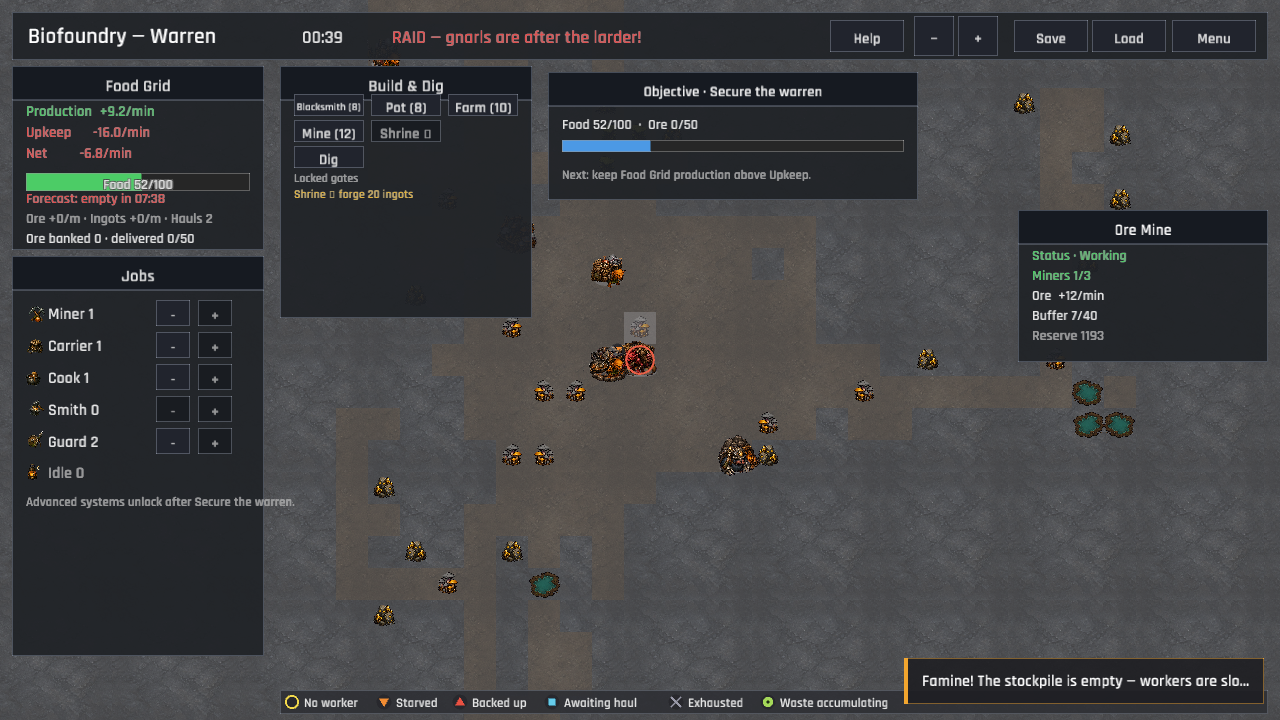
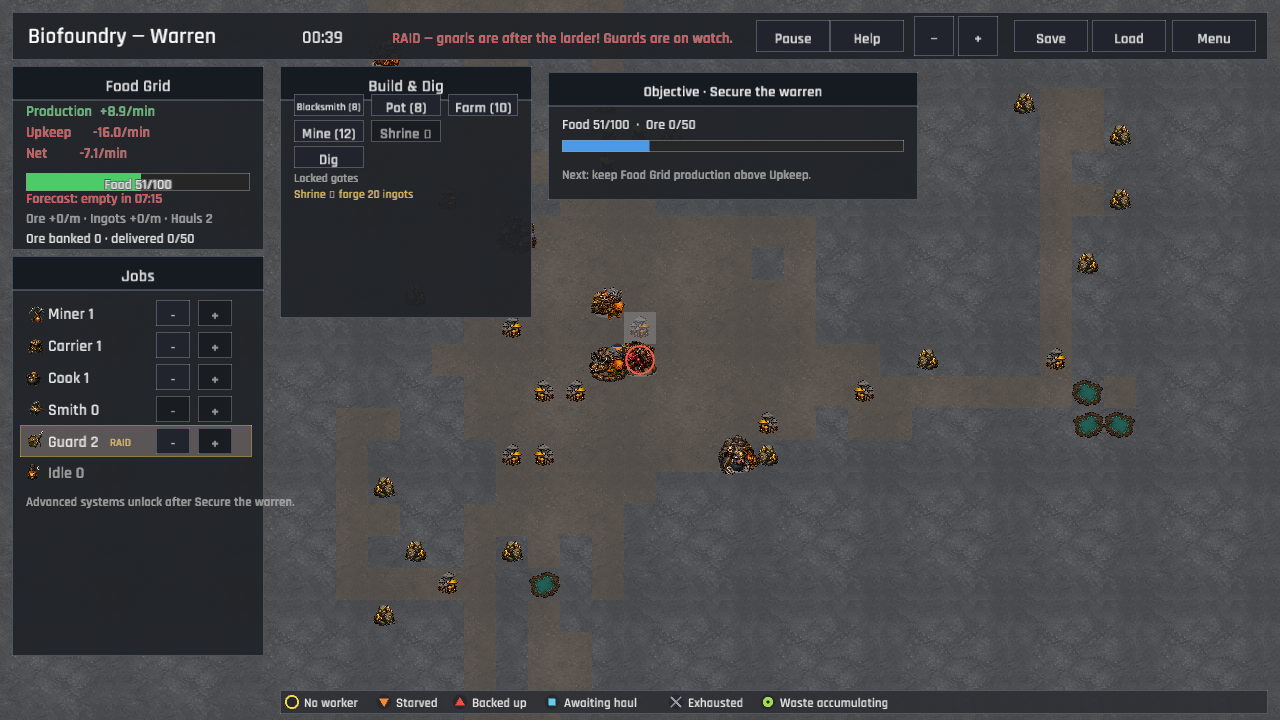
The watch must hold before the warren opens (P1 secure-warren tutorial)
The Secure the Warren lesson previously ended as soon as the food and ore threshold was reached, even if the player had never assigned a Guard. That left the raid response described by the lesson unpracticed.

Require a secured threshold and a live Guard before the lesson advances, preserve that requirement when migrating saved tutorial progress, and cover both the gameplay and migration paths with tests. Refresh the raid warning and active-raid verification captures while publishing the updated candidate.

diff --git a/src/tutorial/tests.rs b/src/tutorial/tests.rs
@@ -1,4 +1,5 @@
 use super::*;
+use crate::state::creatures::Job;
 use crate::state::structures::Building;
 
 fn boot() -> (GameData, GameSession) {
@@ -68,6 +69,7 @@ fn steps_complete_from_player_actions() {
     assert_eq!(current_step(&session, &data).unwrap().id, "secure");
     assert!(!advance(&mut session, &data, none));
     session.won = true;
+    session.creatures[0].job = Job::Guard;
     assert!(advance(&mut session, &data, none));
 
     // 5. The awakened worm finishes the tutorial.
@@ -93,7 +95,7 @@ fn final_tutorial_waits_for_the_worm() {
 }
 
 #[test]
-fn secure_step_waits_for_the_campaign_goal() {
+fn secure_step_waits_for_the_campaign_goal_and_a_guard() {
     let (data, mut session) = boot();
     let none = TutorialInputs::default();
     let secure_index = data.tutorial.iter().position(|s| s.id == "secure").unwrap();
@@ -104,6 +106,8 @@ fn secure_step_waits_for_the_campaign_goal() {
     assert!(secure.body.contains("ends onboarding"));
     assert!(!advance(&mut session, &data, none));
     session.won = true;
+    assert!(!advance(&mut session, &data, none));
+    session.creatures[0].job = Job::Guard;
     assert!(advance(&mut session, &data, none));
     assert_eq!(current_step(&session, &data).unwrap().id, "worm");
 }

diff --git a/src/game/tests.rs b/src/game/tests.rs
@@ -1,5 +1,6 @@
 use super::*;
 use crate::data::GameData;
+use crate::state::creatures::Job;
 use crate::state::outposts::{TransitCompletion, TransitDirection};
 use crate::state::GameSession;
 
@@ -31,6 +32,24 @@ fn tutorial_migration_uses_completed_campaign_facts() {
     migrate_tutorial_progress(&mut session, data.tutorial.len());
 
     assert_eq!(session.tutorial_step, data.tutorial.len());
+}
+
+#[test]
+fn tutorial_migration_keeps_unwitnessed_guard_lesson_visible() {
+    let (data, mut session) = session();
+    session.tutorial_built = true;
+    session
+        .economy
+        .gear_stock
+        .insert("iron_pickaxe".to_owned(), 1);
+    session.won = true;
+
+    migrate_tutorial_progress(&mut session, data.tutorial.len());
+    assert_eq!(session.tutorial_step, 3);
+
+    session.creatures[0].job = Job::Guard;
+    migrate_tutorial_progress(&mut session, data.tutorial.len());
+    assert_eq!(session.tutorial_step, 4);
 }
 
 #[test]

diff --git a/src/tutorial.rs b/src/tutorial.rs
@@ -5,6 +5,7 @@
 //! the sim.
 
 use crate::data::{GameData, TutorialDone, TutorialStepDef};
+use crate::state::creatures::Job;
 use crate::state::GameSession;
 
 /// Frame-side signals the session can't see (camera input lives in `Game`).
@@ -44,7 +45,7 @@ fn step_done(done: &TutorialDone, session: &GameSession, inputs: TutorialInputs)
     match done {
         TutorialDone::CameraMoved => inputs.camera_moved,
         TutorialDone::AnyReassign => session.tutorial_reassigned,
-        TutorialDone::WarrenSecured => session.won,
+        TutorialDone::WarrenSecured => session.won && session.job_count(Job::Guard) > 0,
         TutorialDone::SitePlaced => session.tutorial_built,
         TutorialDone::BuildingPlaced { building } => {
             session.buildings_of(building).next().is_some()

diff --git a/src/game.rs b/src/game.rs
@@ -689,7 +689,7 @@ fn migrate_tutorial_progress(session: &mut GameSession, tutorial_count: usize) {
     {
         step = step.max(3);
     }
-    if session.won {
+    if session.won && session.job_count(Job::Guard) > 0 {
         step = step.max(4);
     }
     if session.worm_awake {
